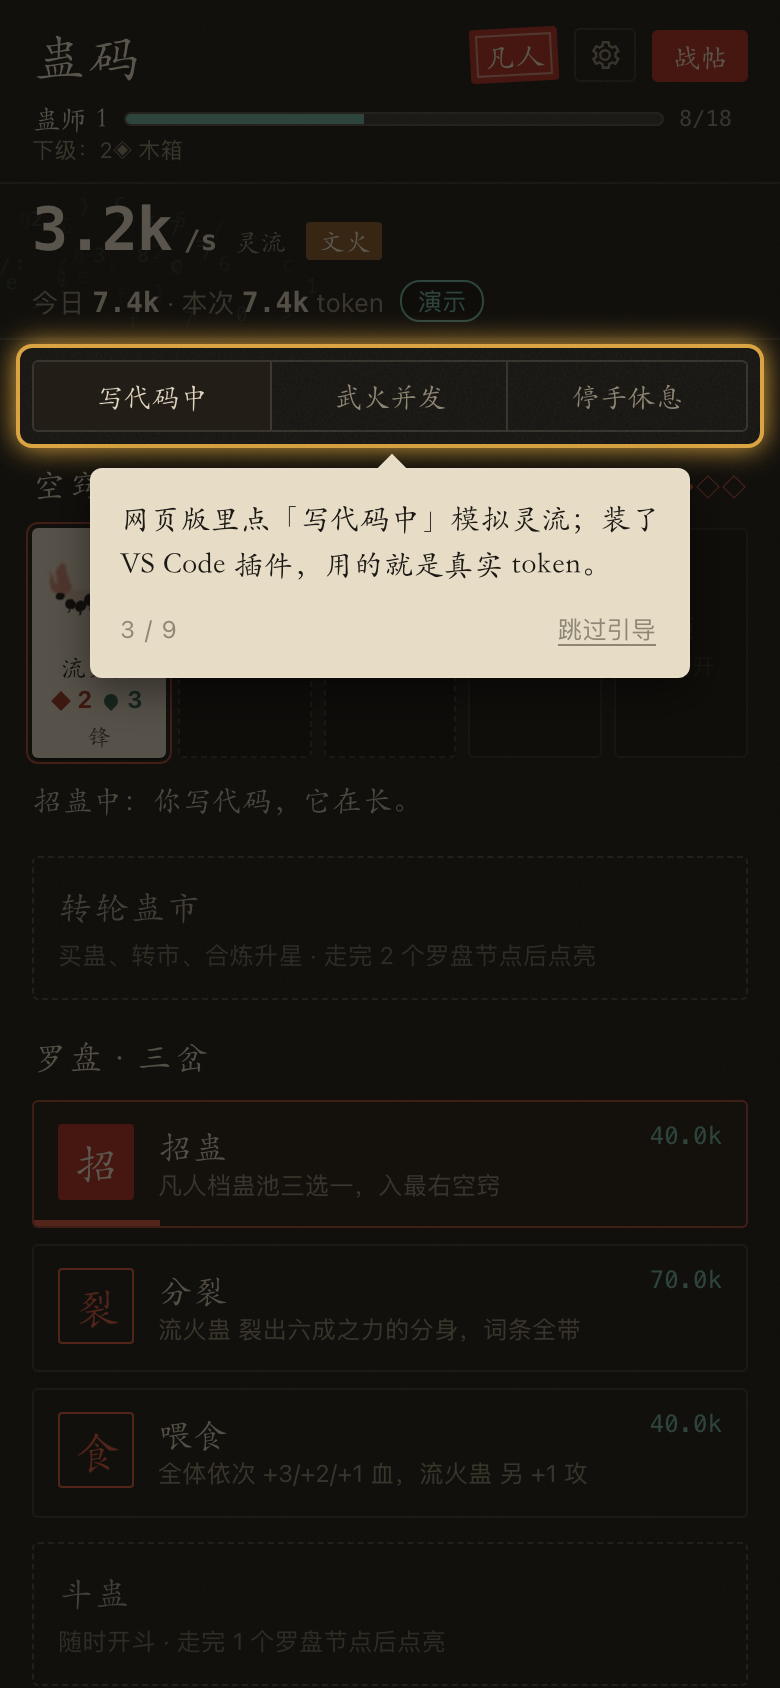
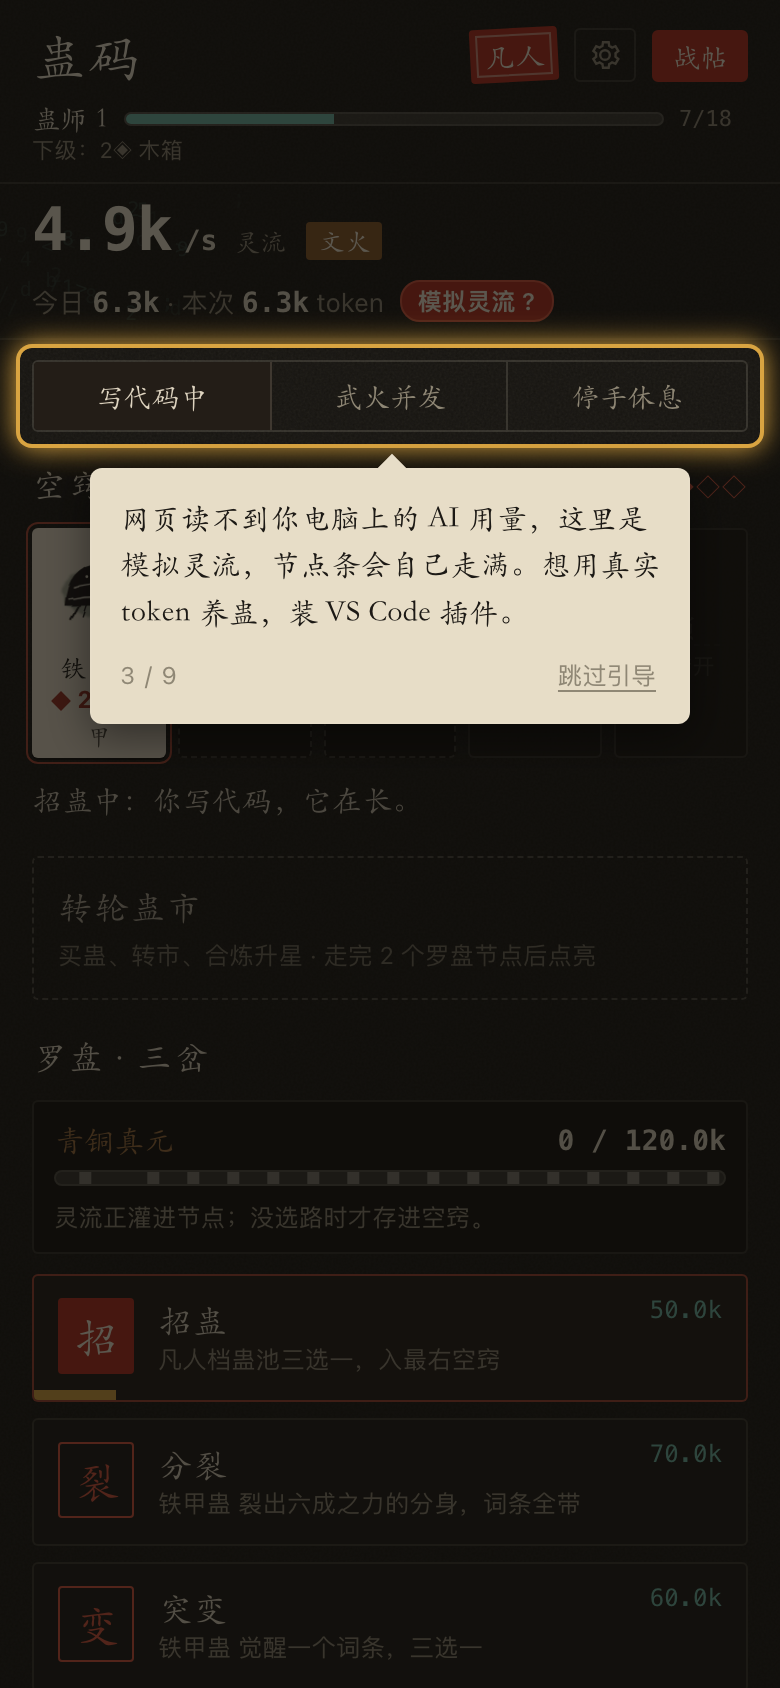
网页版说明：明确 token 是模拟的
- 网页模式下灵流旁的 chip 改成朱底「模拟灵流 ?」，点开说明网页读不到本机 AI 用量、这里是模拟灵流，附插件安装段链接
- 新手引导第 3 步（网页）同样提一句；插件模式不显示这些说明（chip 写「实时 token」）

diff --git a/gucode.js b/gucode.js
@@ -1925,7 +1925,7 @@ function meters() {
   $('#totTxt').innerHTML = `今日 <b>${fmtTok(S.todayKey === today() ? S.todayTok : 0)}</b> · 本次 <b>${fmtTok(sessTok)}</b> token`;
   const sr = $('#srcRates'), sl = srcList(bySrc); sr.hidden = sl.length < 2;
   if (sl.length >= 2) sr.innerHTML = sl.map(x => `<span class="schip${x.rate > 0 ? '' : ' off'}">${esc(x.name)} <b>${fmtTok(x.rate)}/s</b></span>`).join('');
-  const st = $('#srcTag'); st.textContent = src.mode === 'vscode' ? 'Claude 实时' : '演示';
+  const st = $('#srcTag'); st.textContent = src.mode === 'vscode' ? '实时 token' : '模拟灵流 ?'; st.classList.toggle('demo', src.mode !== 'vscode');
   const dm = $('#demo'); dm.hidden = src.mode !== 'demo'; dm.querySelectorAll('button').forEach(b => b.classList.toggle('on', b.dataset.m === src.demo));
   zyUpdate();
   if (S.sel != null) { const n = S.compass[S.sel], bar = document.querySelector(`.node[data-i="${S.sel}"] .nbar i`); if (n && bar) bar.style.width = Math.min(100, 100 * S.prog / (n.cost * src.unit)).toFixed(1) + '%'; }
@@ -2294,6 +2294,7 @@ function guDetail(g, ctx = {}) {
 function openGu(i) { const g = S.team[i]; if (g) guDetail(g, { kind: 'mine', i, team: S.team }); }
 function shareText(code) { return `我在《蛊码》养了一窝蛊（${REALMS[S.realm]}），敢接战帖吗？\n界壁坐标码：${code}`; }
 const SHARE_BASE = 'https://1596941391qq.github.io/gu-code/';
+const INSTALL_URL = 'https://github.com/1596941391qq/gu-code#安装插件获取真实-token-消耗';
 function shareURL(code) { return (/^https?:/.test(location.protocol) ? location.origin + location.pathname : SHARE_BASE) + '#c=' + code; }
 function myCode() { return encodeTeam(S.team.length ? S.team : starterTeam(), { name: S.name, realm: S.realm, marks: S.marks }); }
 function openGhosts() {
@@ -2443,7 +2444,7 @@ const ACT = {
   gu(a) { openGu(+a.dataset.i); },
   mv(a) { const i = +a.dataset.i, j = i + +a.dataset.d; if (!S.team[j]) return; [S.team[i], S.team[j]] = [S.team[j], S.team[i]]; tutorialEvent('formation_swap'); closeSheet(); renderSlots(); renderPhase(); save(); openGu(j); },
   demo(a) { src.demo = a.dataset.m; meters(); },
-  src() { if (VSC) { src.setMode(src.mode === 'vscode' ? 'demo' : 'vscode'); renderPhase(); renderHint(); meters(); } else sheet(`<h3>真实 Token</h3><p class="sm">网页版默认是演示流。想让真实的 Claude Code / Codex 用量来养蛊，请装 VS Code 插件版（gu-code/vscode-ext），它只读会话里的 usage 数字，不读内容。</p>`); },
+  src() { if (VSC) { src.setMode(src.mode === 'vscode' ? 'demo' : 'vscode'); renderPhase(); renderHint(); meters(); } else sheet(`<h3>这里是模拟灵流</h3><p>网页读不到你电脑上的 AI 用量，这里用模拟灵流演示：上面的「写代码中 / 武火并发 / 停手休息」切换的是模拟速率。</p><p>想用真实 token 养蛊，装 VS Code 插件。插件只读本机 Claude Code、Codex 等工具日志里的用量数字，不读对话和代码内容。</p><div class="row2"><a class="btn zhu" href="${INSTALL_URL}" target="_blank" rel="noopener">看插件安装方法</a></div><p class="sm">${esc(INSTALL_URL)}</p>`, 'demoinfo'); },
   theme() { S.theme = { auto: 'light', light: 'dark', dark: 'auto' }[S.theme || 'auto']; applyTheme(); save(); },
   sound() { S.mute = !S.mute; save(); snd('pluck'); },
   settings() { openSettings(); },
@@ -2554,7 +2555,7 @@ function runTutorial() {
   const steps = [];
   TUTORIAL_STEPS.forEach(st => {
     if (st.id === 'formation') steps.push({ ...st, sel: '#slots', click: '[data-act="mv"]', text: '拖动空窍里的蛊换位：最左的炉口最先出手，站位就是战术。' });
-    else if (st.id === 'feed') { steps.push({ ...st, click: '[data-tut-none]', evt: ['node_done', 'node_choice'] }); steps.push({ id: 'choose', sel: '.nodes', click: '.opt', evt: 'node_done', text: '节点走满，停在一道选择题上：挑一个。' }); }
+    else if (st.id === 'feed') { steps.push({ ...st, click: '[data-tut-none]', evt: ['node_done', 'node_choice'], text: VSC ? st.text : '网页读不到你电脑上的 AI 用量，这里是模拟灵流，节点条会自己走满。想用真实 token 养蛊，装 VS Code 插件。' }); steps.push({ id: 'choose', sel: '.nodes', click: '.opt', evt: 'node_done', text: '节点走满，停在一道选择题上：挑一个。' }); }
     else steps.push(st);
   });
   const tut = startTutorial(steps, { vsc: !!VSC, onStep(i, st) {

diff --git a/vscode-ext/media/gucode.js b/vscode-ext/media/gucode.js
@@ -1925,7 +1925,7 @@ function meters() {
   $('#totTxt').innerHTML = `今日 <b>${fmtTok(S.todayKey === today() ? S.todayTok : 0)}</b> · 本次 <b>${fmtTok(sessTok)}</b> token`;
   const sr = $('#srcRates'), sl = srcList(bySrc); sr.hidden = sl.length < 2;
   if (sl.length >= 2) sr.innerHTML = sl.map(x => `<span class="schip${x.rate > 0 ? '' : ' off'}">${esc(x.name)} <b>${fmtTok(x.rate)}/s</b></span>`).join('');
-  const st = $('#srcTag'); st.textContent = src.mode === 'vscode' ? 'Claude 实时' : '演示';
+  const st = $('#srcTag'); st.textContent = src.mode === 'vscode' ? '实时 token' : '模拟灵流 ?'; st.classList.toggle('demo', src.mode !== 'vscode');
   const dm = $('#demo'); dm.hidden = src.mode !== 'demo'; dm.querySelectorAll('button').forEach(b => b.classList.toggle('on', b.dataset.m === src.demo));
   zyUpdate();
   if (S.sel != null) { const n = S.compass[S.sel], bar = document.querySelector(`.node[data-i="${S.sel}"] .nbar i`); if (n && bar) bar.style.width = Math.min(100, 100 * S.prog / (n.cost * src.unit)).toFixed(1) + '%'; }
@@ -2294,6 +2294,7 @@ function guDetail(g, ctx = {}) {
 function openGu(i) { const g = S.team[i]; if (g) guDetail(g, { kind: 'mine', i, team: S.team }); }
 function shareText(code) { return `我在《蛊码》养了一窝蛊（${REALMS[S.realm]}），敢接战帖吗？\n界壁坐标码：${code}`; }
 const SHARE_BASE = 'https://1596941391qq.github.io/gu-code/';
+const INSTALL_URL = 'https://github.com/1596941391qq/gu-code#安装插件获取真实-token-消耗';
 function shareURL(code) { return (/^https?:/.test(location.protocol) ? location.origin + location.pathname : SHARE_BASE) + '#c=' + code; }
 function myCode() { return encodeTeam(S.team.length ? S.team : starterTeam(), { name: S.name, realm: S.realm, marks: S.marks }); }
 function openGhosts() {
@@ -2443,7 +2444,7 @@ const ACT = {
   gu(a) { openGu(+a.dataset.i); },
   mv(a) { const i = +a.dataset.i, j = i + +a.dataset.d; if (!S.team[j]) return; [S.team[i], S.team[j]] = [S.team[j], S.team[i]]; tutorialEvent('formation_swap'); closeSheet(); renderSlots(); renderPhase(); save(); openGu(j); },
   demo(a) { src.demo = a.dataset.m; meters(); },
-  src() { if (VSC) { src.setMode(src.mode === 'vscode' ? 'demo' : 'vscode'); renderPhase(); renderHint(); meters(); } else sheet(`<h3>真实 Token</h3><p class="sm">网页版默认是演示流。想让真实的 Claude Code / Codex 用量来养蛊，请装 VS Code 插件版（gu-code/vscode-ext），它只读会话里的 usage 数字，不读内容。</p>`); },
+  src() { if (VSC) { src.setMode(src.mode === 'vscode' ? 'demo' : 'vscode'); renderPhase(); renderHint(); meters(); } else sheet(`<h3>这里是模拟灵流</h3><p>网页读不到你电脑上的 AI 用量，这里用模拟灵流演示：上面的「写代码中 / 武火并发 / 停手休息」切换的是模拟速率。</p><p>想用真实 token 养蛊，装 VS Code 插件。插件只读本机 Claude Code、Codex 等工具日志里的用量数字，不读对话和代码内容。</p><div class="row2"><a class="btn zhu" href="${INSTALL_URL}" target="_blank" rel="noopener">看插件安装方法</a></div><p class="sm">${esc(INSTALL_URL)}</p>`, 'demoinfo'); },
   theme() { S.theme = { auto: 'light', light: 'dark', dark: 'auto' }[S.theme || 'auto']; applyTheme(); save(); },
   sound() { S.mute = !S.mute; save(); snd('pluck'); },
   settings() { openSettings(); },
@@ -2554,7 +2555,7 @@ function runTutorial() {
   const steps = [];
   TUTORIAL_STEPS.forEach(st => {
     if (st.id === 'formation') steps.push({ ...st, sel: '#slots', click: '[data-act="mv"]', text: '拖动空窍里的蛊换位：最左的炉口最先出手，站位就是战术。' });
-    else if (st.id === 'feed') { steps.push({ ...st, click: '[data-tut-none]', evt: ['node_done', 'node_choice'] }); steps.push({ id: 'choose', sel: '.nodes', click: '.opt', evt: 'node_done', text: '节点走满，停在一道选择题上：挑一个。' }); }
+    else if (st.id === 'feed') { steps.push({ ...st, click: '[data-tut-none]', evt: ['node_done', 'node_choice'], text: VSC ? st.text : '网页读不到你电脑上的 AI 用量，这里是模拟灵流，节点条会自己走满。想用真实 token 养蛊，装 VS Code 插件。' }); steps.push({ id: 'choose', sel: '.nodes', click: '.opt', evt: 'node_done', text: '节点走满，停在一道选择题上：挑一个。' }); }
     else steps.push(st);
   });
   const tut = startTutorial(steps, { vsc: !!VSC, onStep(i, st) {

diff --git a/src/ui.js b/src/ui.js
@@ -393,7 +393,7 @@ function meters() {
   $('#totTxt').innerHTML = `今日 <b>${fmtTok(S.todayKey === today() ? S.todayTok : 0)}</b> · 本次 <b>${fmtTok(sessTok)}</b> token`;
   const sr = $('#srcRates'), sl = srcList(bySrc); sr.hidden = sl.length < 2;
   if (sl.length >= 2) sr.innerHTML = sl.map(x => `<span class="schip${x.rate > 0 ? '' : ' off'}">${esc(x.name)} <b>${fmtTok(x.rate)}/s</b></span>`).join('');
-  const st = $('#srcTag'); st.textContent = src.mode === 'vscode' ? 'Claude 实时' : '演示';
+  const st = $('#srcTag'); st.textContent = src.mode === 'vscode' ? '实时 token' : '模拟灵流 ?'; st.classList.toggle('demo', src.mode !== 'vscode');
   const dm = $('#demo'); dm.hidden = src.mode !== 'demo'; dm.querySelectorAll('button').forEach(b => b.classList.toggle('on', b.dataset.m === src.demo));
   zyUpdate();
   if (S.sel != null) { const n = S.compass[S.sel], bar = document.querySelector(`.node[data-i="${S.sel}"] .nbar i`); if (n && bar) bar.style.width = Math.min(100, 100 * S.prog / (n.cost * src.unit)).toFixed(1) + '%'; }
@@ -762,6 +762,7 @@ function guDetail(g, ctx = {}) {
 function openGu(i) { const g = S.team[i]; if (g) guDetail(g, { kind: 'mine', i, team: S.team }); }
 function shareText(code) { return `我在《蛊码》养了一窝蛊（${REALMS[S.realm]}），敢接战帖吗？\n界壁坐标码：${code}`; }
 const SHARE_BASE = 'https://1596941391qq.github.io/gu-code/';
+const INSTALL_URL = 'https://github.com/1596941391qq/gu-code#安装插件获取真实-token-消耗';
 function shareURL(code) { return (/^https?:/.test(location.protocol) ? location.origin + location.pathname : SHARE_BASE) + '#c=' + code; }
 function myCode() { return encodeTeam(S.team.length ? S.team : starterTeam(), { name: S.name, realm: S.realm, marks: S.marks }); }
 function openGhosts() {
@@ -911,7 +912,7 @@ const ACT = {
   gu(a) { openGu(+a.dataset.i); },
   mv(a) { const i = +a.dataset.i, j = i + +a.dataset.d; if (!S.team[j]) return; [S.team[i], S.team[j]] = [S.team[j], S.team[i]]; tutorialEvent('formation_swap'); closeSheet(); renderSlots(); renderPhase(); save(); openGu(j); },
   demo(a) { src.demo = a.dataset.m; meters(); },
-  src() { if (VSC) { src.setMode(src.mode === 'vscode' ? 'demo' : 'vscode'); renderPhase(); renderHint(); meters(); } else sheet(`<h3>真实 Token</h3><p class="sm">网页版默认是演示流。想让真实的 Claude Code / Codex 用量来养蛊，请装 VS Code 插件版（gu-code/vscode-ext），它只读会话里的 usage 数字，不读内容。</p>`); },
+  src() { if (VSC) { src.setMode(src.mode === 'vscode' ? 'demo' : 'vscode'); renderPhase(); renderHint(); meters(); } else sheet(`<h3>这里是模拟灵流</h3><p>网页读不到你电脑上的 AI 用量，这里用模拟灵流演示：上面的「写代码中 / 武火并发 / 停手休息」切换的是模拟速率。</p><p>想用真实 token 养蛊，装 VS Code 插件。插件只读本机 Claude Code、Codex 等工具日志里的用量数字，不读对话和代码内容。</p><div class="row2"><a class="btn zhu" href="${INSTALL_URL}" target="_blank" rel="noopener">看插件安装方法</a></div><p class="sm">${esc(INSTALL_URL)}</p>`, 'demoinfo'); },
   theme() { S.theme = { auto: 'light', light: 'dark', dark: 'auto' }[S.theme || 'auto']; applyTheme(); save(); },
   sound() { S.mute = !S.mute; save(); snd('pluck'); },
   settings() { openSettings(); },
@@ -1022,7 +1023,7 @@ function runTutorial() {
   const steps = [];
   TUTORIAL_STEPS.forEach(st => {
     if (st.id === 'formation') steps.push({ ...st, sel: '#slots', click: '[data-act="mv"]', text: '拖动空窍里的蛊换位：最左的炉口最先出手，站位就是战术。' });
-    else if (st.id === 'feed') { steps.push({ ...st, click: '[data-tut-none]', evt: ['node_done', 'node_choice'] }); steps.push({ id: 'choose', sel: '.nodes', click: '.opt', evt: 'node_done', text: '节点走满，停在一道选择题上：挑一个。' }); }
+    else if (st.id === 'feed') { steps.push({ ...st, click: '[data-tut-none]', evt: ['node_done', 'node_choice'], text: VSC ? st.text : '网页读不到你电脑上的 AI 用量，这里是模拟灵流，节点条会自己走满。想用真实 token 养蛊，装 VS Code 插件。' }); steps.push({ id: 'choose', sel: '.nodes', click: '.opt', evt: 'node_done', text: '节点走满，停在一道选择题上：挑一个。' }); }
     else steps.push(st);
   });
   const tut = startTutorial(steps, { vsc: !!VSC, onStep(i, st) {

diff --git a/style.css b/style.css
@@ -161,6 +161,9 @@ i{font-style:normal}
 .chip{border:1px solid var(--qing);border-radius:10px;padding:1px 8px;font:12px var(--sans);color:var(--qing);background:var(--bg)}
 .vsrc{position:relative;z-index:1;display:flex;flex-wrap:wrap;gap:6px;margin-top:6px}
 .vsrc[hidden]{display:none}
+.chip.demo{border-color:var(--zhu2);color:var(--on-zhu);background:var(--zhu);font-weight:600}
+.sheet a.btn{display:block;text-align:center;padding:10px 16px;border-radius:3px;font:15px var(--kai);text-decoration:none}
+.sheet a.btn.zhu{background:var(--zhu);color:var(--on-zhu)}
 .schip{font:12px var(--sans);color:var(--mu);border:1px solid var(--line);border-radius:10px;padding:1px 8px;background:var(--bg)}
 .schip b{font:600 12px var(--mono);color:var(--tx)}
 .schip.off{opacity:.5}

diff --git a/vscode-ext/media/style.css b/vscode-ext/media/style.css
@@ -161,6 +161,9 @@ i{font-style:normal}
 .chip{border:1px solid var(--qing);border-radius:10px;padding:1px 8px;font:12px var(--sans);color:var(--qing);background:var(--bg)}
 .vsrc{position:relative;z-index:1;display:flex;flex-wrap:wrap;gap:6px;margin-top:6px}
 .vsrc[hidden]{display:none}
+.chip.demo{border-color:var(--zhu2);color:var(--on-zhu);background:var(--zhu);font-weight:600}
+.sheet a.btn{display:block;text-align:center;padding:10px 16px;border-radius:3px;font:15px var(--kai);text-decoration:none}
+.sheet a.btn.zhu{background:var(--zhu);color:var(--on-zhu)}
 .schip{font:12px var(--sans);color:var(--mu);border:1px solid var(--line);border-radius:10px;padding:1px 8px;background:var(--bg)}
 .schip b{font:600 12px var(--mono);color:var(--tx)}
 .schip.off{opacity:.5}
